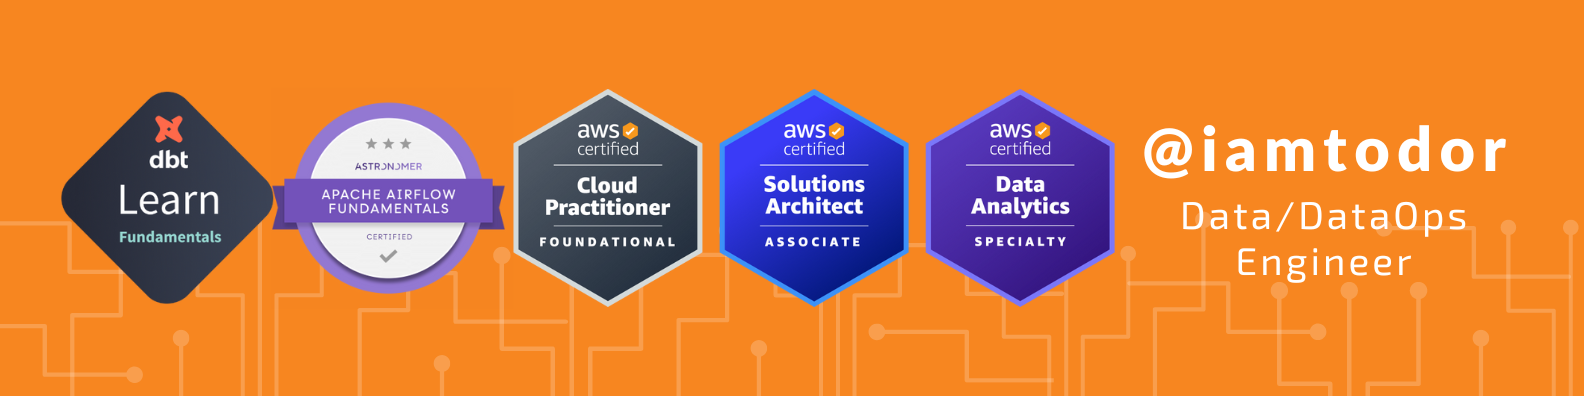
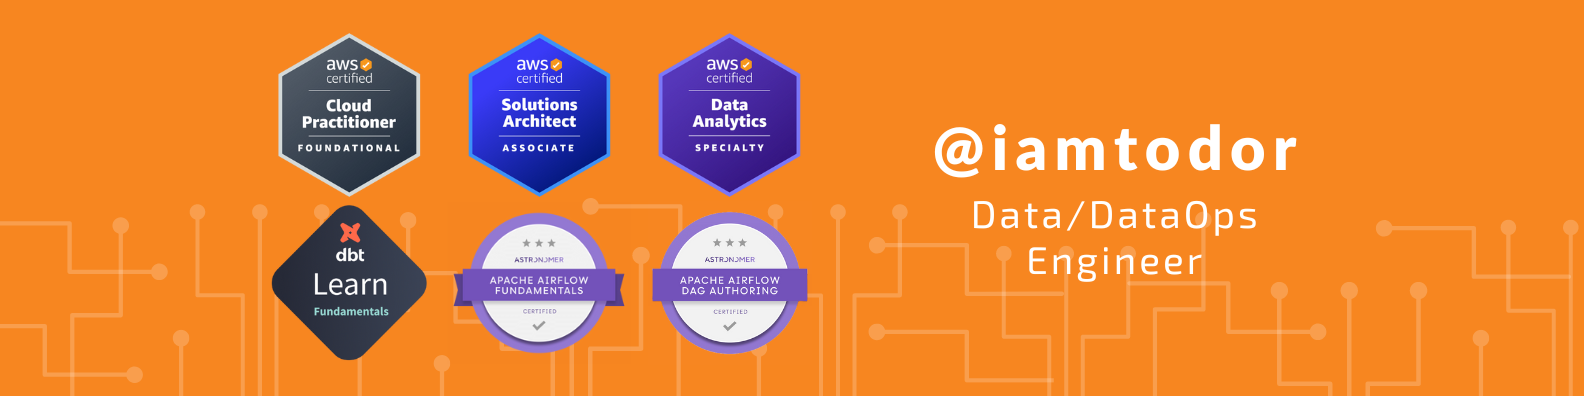
update airflow certification

diff --git a/README.md b/README.md
@@ -1,4 +1,4 @@
-![iamtodor Data/DataOps Engineer](assets/banner.png)
+![iamtodor Data/DataOps Engineer](assets/medium_banner.png)
 
 ## 🤓 I am:
 
@@ -10,7 +10,9 @@
     - [AWS Certified Solutions Architect – Associate](https://www.credly.com/badges/741400de-d94d-4c49-baee-7c32df7ce755/public_url)
     - [AWS Certified Data Analytics – Specialty](https://www.credly.com/badges/e4f8ad03-aaaa-493d-956d-8406dc1711c4/public_url)
     - [AWS Certified Cloud Practitioner](https://www.credly.com/badges/4a6e053d-ce11-4e36-9c42-689feb584ded/public_url)
-  - [Astronomer Certification for Apache Airflow Fundamentals](https://www.credly.com/badges/4ef80ab8-53ee-4486-8482-21b876cfcf3a/public_url)
+  - 2x Airflow Certified:
+    - [Astronomer Certification for Apache Airflow Fundamentals](https://www.credly.com/badges/4ef80ab8-53ee-4486-8482-21b876cfcf3a/public_url)
+    - [Astronomer Certification DAG Authoring for Apache Airflow](https://www.credly.com/badges/4ef80ab8-53ee-4486-8482-21b876cfcf3a/public_url)
   - [dbt Fundamentals](https://www.credential.net/fe4a3288-a48b-4b97-9368-ed65641d3f5a#gs.kflk9n)
 
 ## 🔧 Data/DataOps Engineer Technical Stack:
